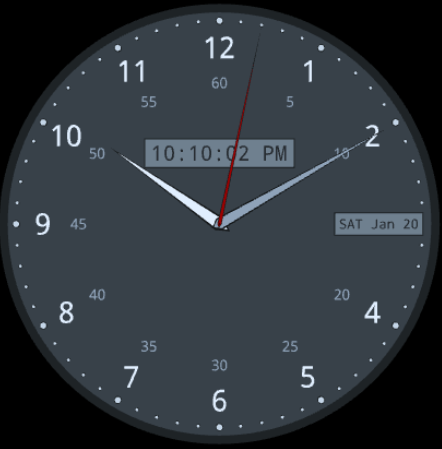
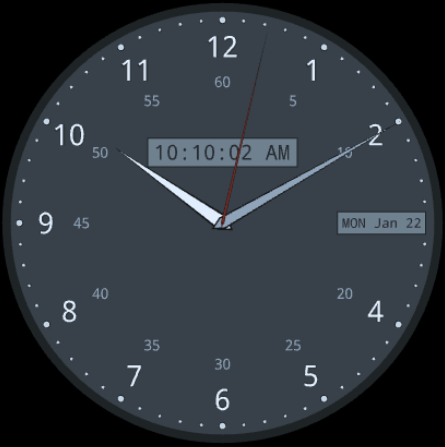
Checked out latest changes from main.

diff --git a/src/frontend/modules/visuals/shapes.js b/src/frontend/modules/visuals/shapes.js
@@ -13,9 +13,9 @@ export const hourHandShape = (scale = 1) => {
     const lengthScale = scale != 1 ? scale * 1.25 : scale;
     const shape = new THREE.Shape();
     shape.moveTo(0, -0.3 * scale);
-    shape.lineTo(-0.175 * scale, 0);
+    shape.lineTo(-0.2 * scale, 0);
     shape.lineTo(0, SIZES.CLOCK_RADIUS * 5/8 * lengthScale);
-    shape.lineTo(0.175 * scale, 0);
+    shape.lineTo(0.2 * scale, 0);
     shape.lineTo(0, -0.3 * scale);
     return shape;
 };
@@ -24,11 +24,11 @@ export const hourHandShape = (scale = 1) => {
 export const minuteHandShape = (scale = 1) => {
     const lengthScale = scale != 1 ? scale * 1.25 : scale;
     const shape = new THREE.Shape();
-    shape.moveTo(0, -0.2 * scale);
+    shape.moveTo(0, -0.3 * scale);
     shape.lineTo(-0.15 * scale, 0);
-    shape.lineTo(0, SIZES.CLOCK_RADIUS * 9/10 * lengthScale);
+    shape.lineTo(0, SIZES.CLOCK_RADIUS * 23/24 * lengthScale);
     shape.lineTo(0.15 * scale, 0);
-    shape.lineTo(0, -0.2 * scale);
+    shape.lineTo(0, -0.3 * scale);
     return shape;
 };
 
@@ -37,9 +37,9 @@ export const secondHandShape = (scale = 1) => {
     const lengthScale = scale != 1 ? scale * 1.25 : scale;
     const shape = new THREE.Shape();
     shape.moveTo(0, -0.1 * scale);
-    shape.lineTo(-0.05 * scale, 0);
+    shape.lineTo(-0.04 * scale, 0);
     shape.lineTo(0, SIZES.CLOCK_RADIUS * 23/24 * lengthScale);
-    shape.lineTo(0.05 * scale, 0);
+    shape.lineTo(0.04 * scale, 0);
     shape.lineTo(0, -0.1 * scale);
     return shape;
 };

diff --git a/src/frontend/modules/clock/clockConstructor.js b/src/frontend/modules/clock/clockConstructor.js
@@ -86,6 +86,7 @@ function createIndicators(scene) {
 
         // Indicators
         const indicatorGeometry = createIndicatorGeometry(isFiveMinuteMark, SIZES.INDICATOR_SCALE);
+        indicatorGeometry.center();
 
         const indicator = createIndicatorMesh(indicatorGeometry);
         configureMesh(indicator, `indicator${i}`, angle, distanceFromCenter)
@@ -96,6 +97,7 @@ function createIndicators(scene) {
 
         // Indicator borders
         const outerIndicatorGeometry = createIndicatorGeometry(isFiveMinuteMark);
+        outerIndicatorGeometry.center();
 
         const outerIndicator = createOuterIndicatorMesh(outerIndicatorGeometry);
         configureMesh(outerIndicator, `outerIndicator${i}`, angle, distanceFromCenter)
